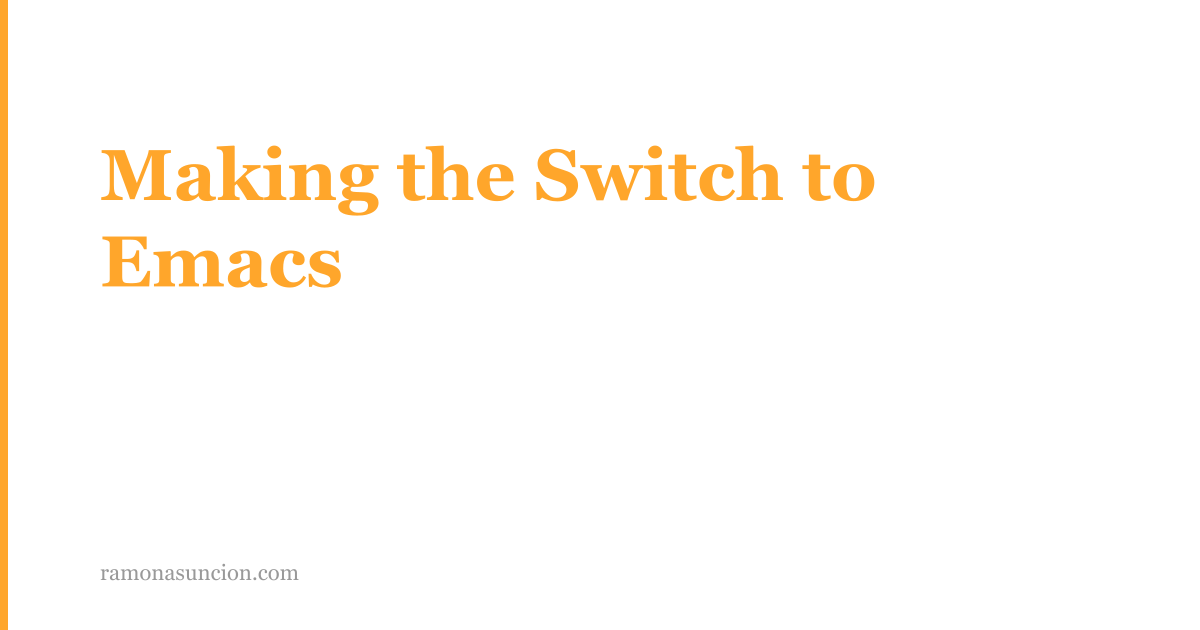
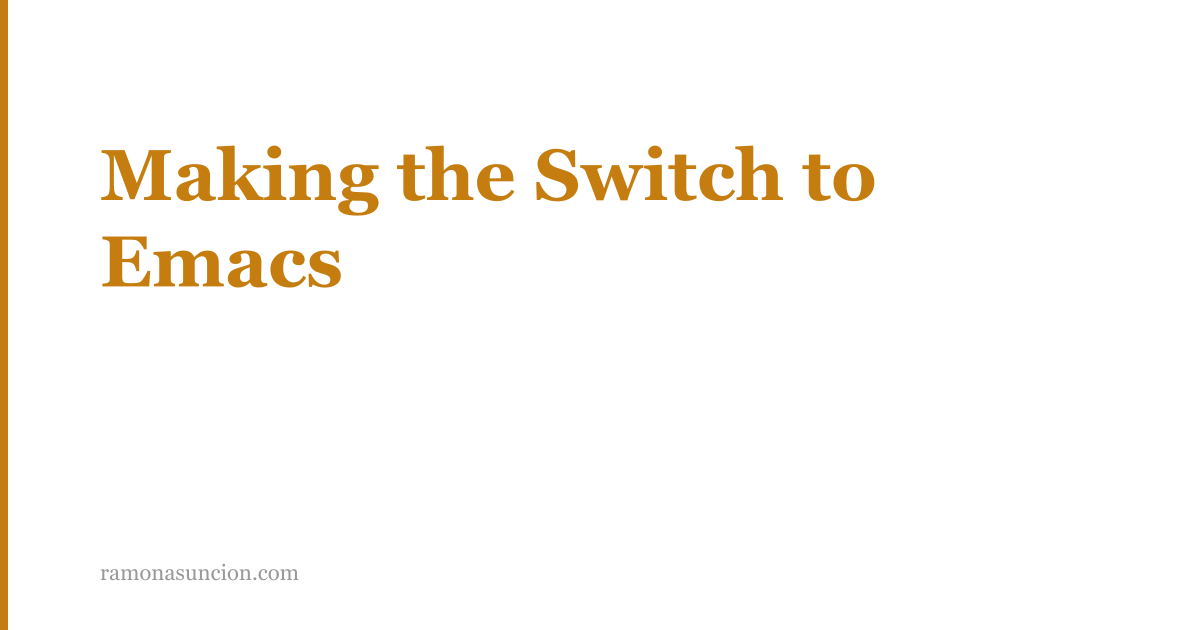
Darker mango

Changed region(s): [[0.0925, 0.2111, 0.74, 0.3619], [0.0, 0.0, 0.0308, 1.0], [0.0925, 0.3619, 0.3083, 0.4524]]

diff --git a/build.js b/build.js
@@ -179,7 +179,7 @@ async function generateOgImage(title, outPath) {
   const titleLines = lines
     .map(
       (line, i) =>
-        `<text x="100" y="${startY + i * lineHeight}" font-family="Georgia, serif" font-size="${fontSize}" font-weight="700" fill="#ffa62b">${escape(line)}</text>`,
+        `<text x="100" y="${startY + i * lineHeight}" font-family="Georgia, serif" font-size="${fontSize}" font-weight="700" fill="#c47d0e">${escape(line)}</text>`,
     )
     .join("\n  ");
 

diff --git a/assets/styles.css b/assets/styles.css
@@ -4,7 +4,7 @@
 
 /* Root variables */
 :root {
-  --accent: rgb(255, 166, 43);
+  --accent: #c47d0e;
   --bg: #ffffff;
   --muted: #666;
   --max-width: 720px;
